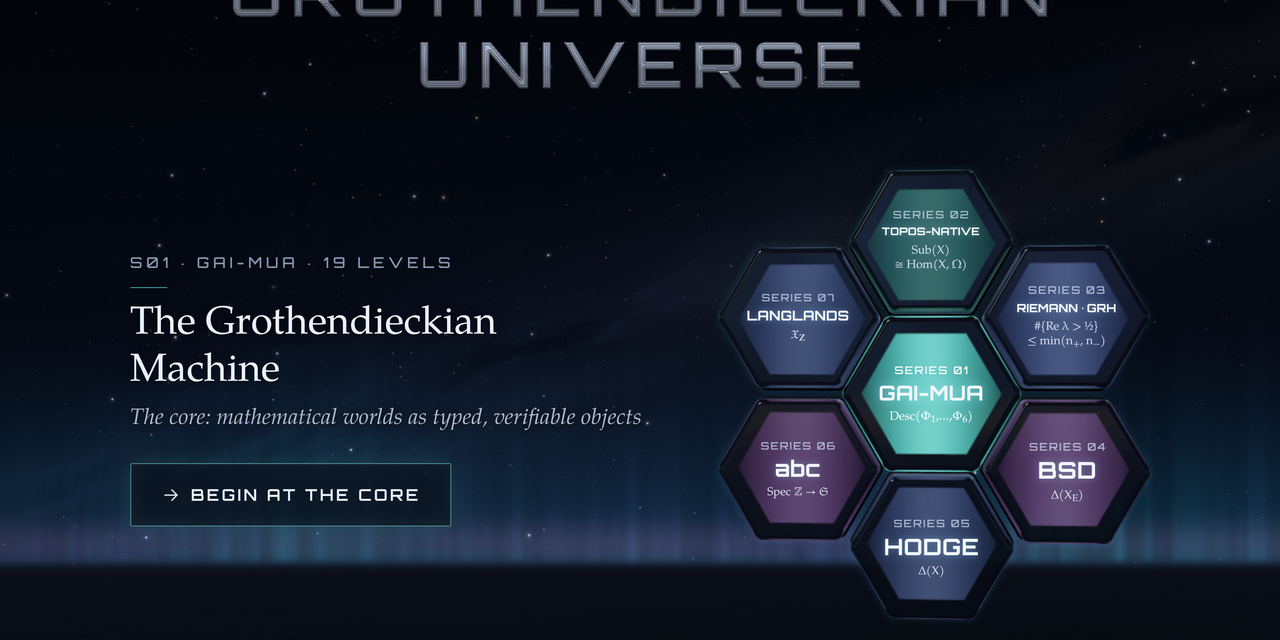
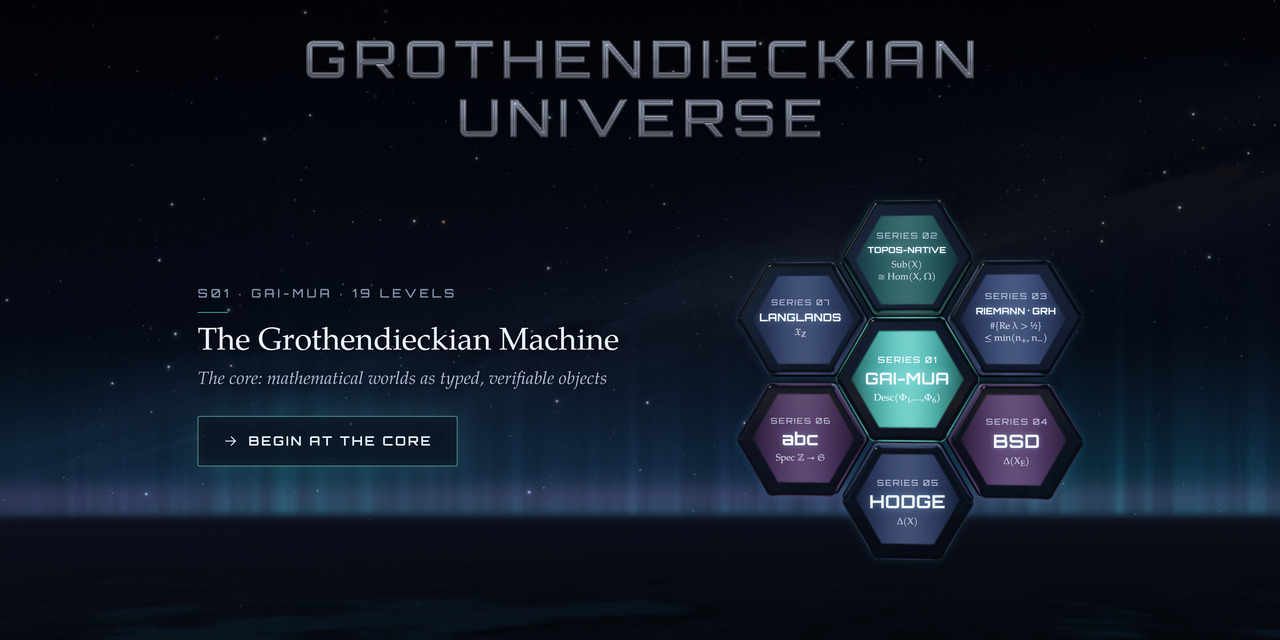
SEO: per-language JSON-LD, IndexNow key, branded 404; social preview at 2:1

diff --git a/site/404.html b/site/404.html
@@ -1,1 +1,48 @@
-<!doctype html><meta charset="utf-8"><title>Not found</title><meta http-equiv="refresh" content="0;url=/">
+<!doctype html>
+<html lang="en">
+<head>
+<meta charset="utf-8">
+<meta name="viewport" content="width=device-width, initial-scale=1">
+<meta http-equiv="Content-Security-Policy" content="default-src 'none'; style-src 'unsafe-inline'; base-uri 'none'">
+<meta name="robots" content="noindex">
+<title>Not found · Grothendieckian Universe</title>
+<style>
+  :root { color-scheme: dark; }
+  html, body { margin: 0; min-height: 100%; }
+  body { background: #04070c; color: #e8eef4; font: 400 16px/1.6 "PingFang SC", "Hiragino Sans GB",
+         "Microsoft YaHei", -apple-system, "Segoe UI", sans-serif; display: grid; place-items: center;
+         min-height: 100vh; padding: 8vh 6vw; box-sizing: border-box; }
+  main { max-width: 40rem; width: 100%; }
+  .hex { width: 34px; height: 30px; margin: 0 0 28px; display: block; opacity: .85; }
+  .code { font: 400 13px/1 ui-monospace, "SFMono-Regular", Consolas, monospace; letter-spacing: .28em;
+          color: #7fe9de; text-transform: uppercase; }
+  h1 { font-weight: 300; font-size: clamp(1.6rem, 4vw, 2.4rem); letter-spacing: .01em; margin: .5rem 0 1rem; }
+  p { color: #9fb0c0; margin: 0 0 1rem; }
+  .zh { color: #9fb0c0; }
+  .rule { height: 1px; background: linear-gradient(90deg, rgba(127,233,222,.55), rgba(127,233,222,0)); margin: 2rem 0; }
+  a.home { display: inline-block; margin-top: .6rem; color: #7fe9de; text-decoration: none;
+           border: 1px solid rgba(127,233,222,.45); border-radius: 3px; padding: .6rem 1.1rem;
+           font: 400 12px/1 ui-monospace, "SFMono-Regular", Consolas, monospace; letter-spacing: .22em;
+           text-transform: uppercase; }
+  a.home:hover, a.home:focus { border-color: #7fe9de; background: rgba(127,233,222,.07); }
+  a.zh-link { color: #9fb0c0; text-decoration: none; border-bottom: 1px solid rgba(159,176,192,.35); }
+</style>
+</head>
+<body>
+<main>
+  <svg class="hex" viewBox="0 0 34 30" aria-hidden="true"><path d="M17 1 32 9.5v15L17 33 2 24.5v-15Z"
+    fill="none" stroke="#7fe9de" stroke-width="1.2" transform="translate(0,-2)"/></svg>
+  <div class="code">404 · not found</div>
+  <h1>This path holds no puzzle.</h1>
+  <p>The address is not one of the game's. The seven worlds are one click away.</p>
+  <a class="home" href="/">&#8594; Begin at the core</a>
+  <div class="rule"></div>
+  <div class="code" style="color:#7f93a6">404 · 找不到</div>
+  <h1 class="zh" style="font-size:clamp(1.3rem,3.2vw,1.9rem)">这个地址上没有谜题。</h1>
+  <p class="zh">它不属于这款游戏。七个世界就在一步之外。</p>
+  <a class="home" href="/zh/">&#8594; 从核心开始</a>
+  <p class="zh" style="margin-top:2rem;font-size:.85rem">网址若来自别处，可能已经改变；回到
+    <a class="zh-link" href="/">英文首页</a>或<a class="zh-link" href="/zh/">中文首页</a>即可。</p>
+</main>
+</body>
+</html>

diff --git a/site/zh/index.html b/site/zh/index.html
@@ -30,7 +30,7 @@
 <meta name="twitter:image" content="https://grothendieck.space/img/share.png">
 <link rel="stylesheet" href="proto.css">
 <script type="module" src="app.js"></script>
-<script type="application/ld+json">{"@context":"https://schema.org","@type":"VideoGame","name":"Grothendieckian Universe","author":{"@type":"Person","name":"Vincent Liu","url":"https://alienmuse.space/"},"publisher":{"@type":"Organization","name":"WiseMotif.ai","url":"https://wisemotif.ai/"},"url":"https://grothendieck.space/","image":"https://grothendieck.space/img/share.png","genre":["Puzzle","Educational"],"gamePlatform":"Web browser","inLanguage":["en","zh-Hans"],"isAccessibleForFree":true,"description":"A puzzle game of the seven works of The Grothendieckian Programme by Vincent Liu: descent, topos, schemes, the Riemann Hypothesis, BSD, Hodge, abc and Langlands, each level one idea of a book. Free to play in the browser, in English and Chinese."}</script>
+<script type="application/ld+json">{"@context":"https://schema.org","@type":"VideoGame","name":"Grothendieckian Universe","author":{"@type":"Person","name":"Vincent Liu","url":"https://alienmuse.space/"},"publisher":{"@type":"Organization","name":"WiseMotif.ai","url":"https://wisemotif.ai/"},"url":"https://grothendieck.space/zh/","image":"https://grothendieck.space/img/share.png","genre":["Puzzle","Educational"],"gamePlatform":"Web browser","inLanguage":["zh-Hans","en"],"isAccessibleForFree":true,"description":"Vincent Liu《The Grothendieckian Programme》七部著作的益智解谜游戏：下降、拓扑斯、概形、黎曼猜想、BSD、Hodge、abc 与 Langlands，每一关都是书里的一个思想。浏览器免费游玩，中英文可切换。"}</script>
 </head>
 <body>
 <canvas class="stage" aria-hidden="true" data-word="name" data-wordmark="img/wordmark-name.png" data-faces="img/cellfaces.png"></canvas>
